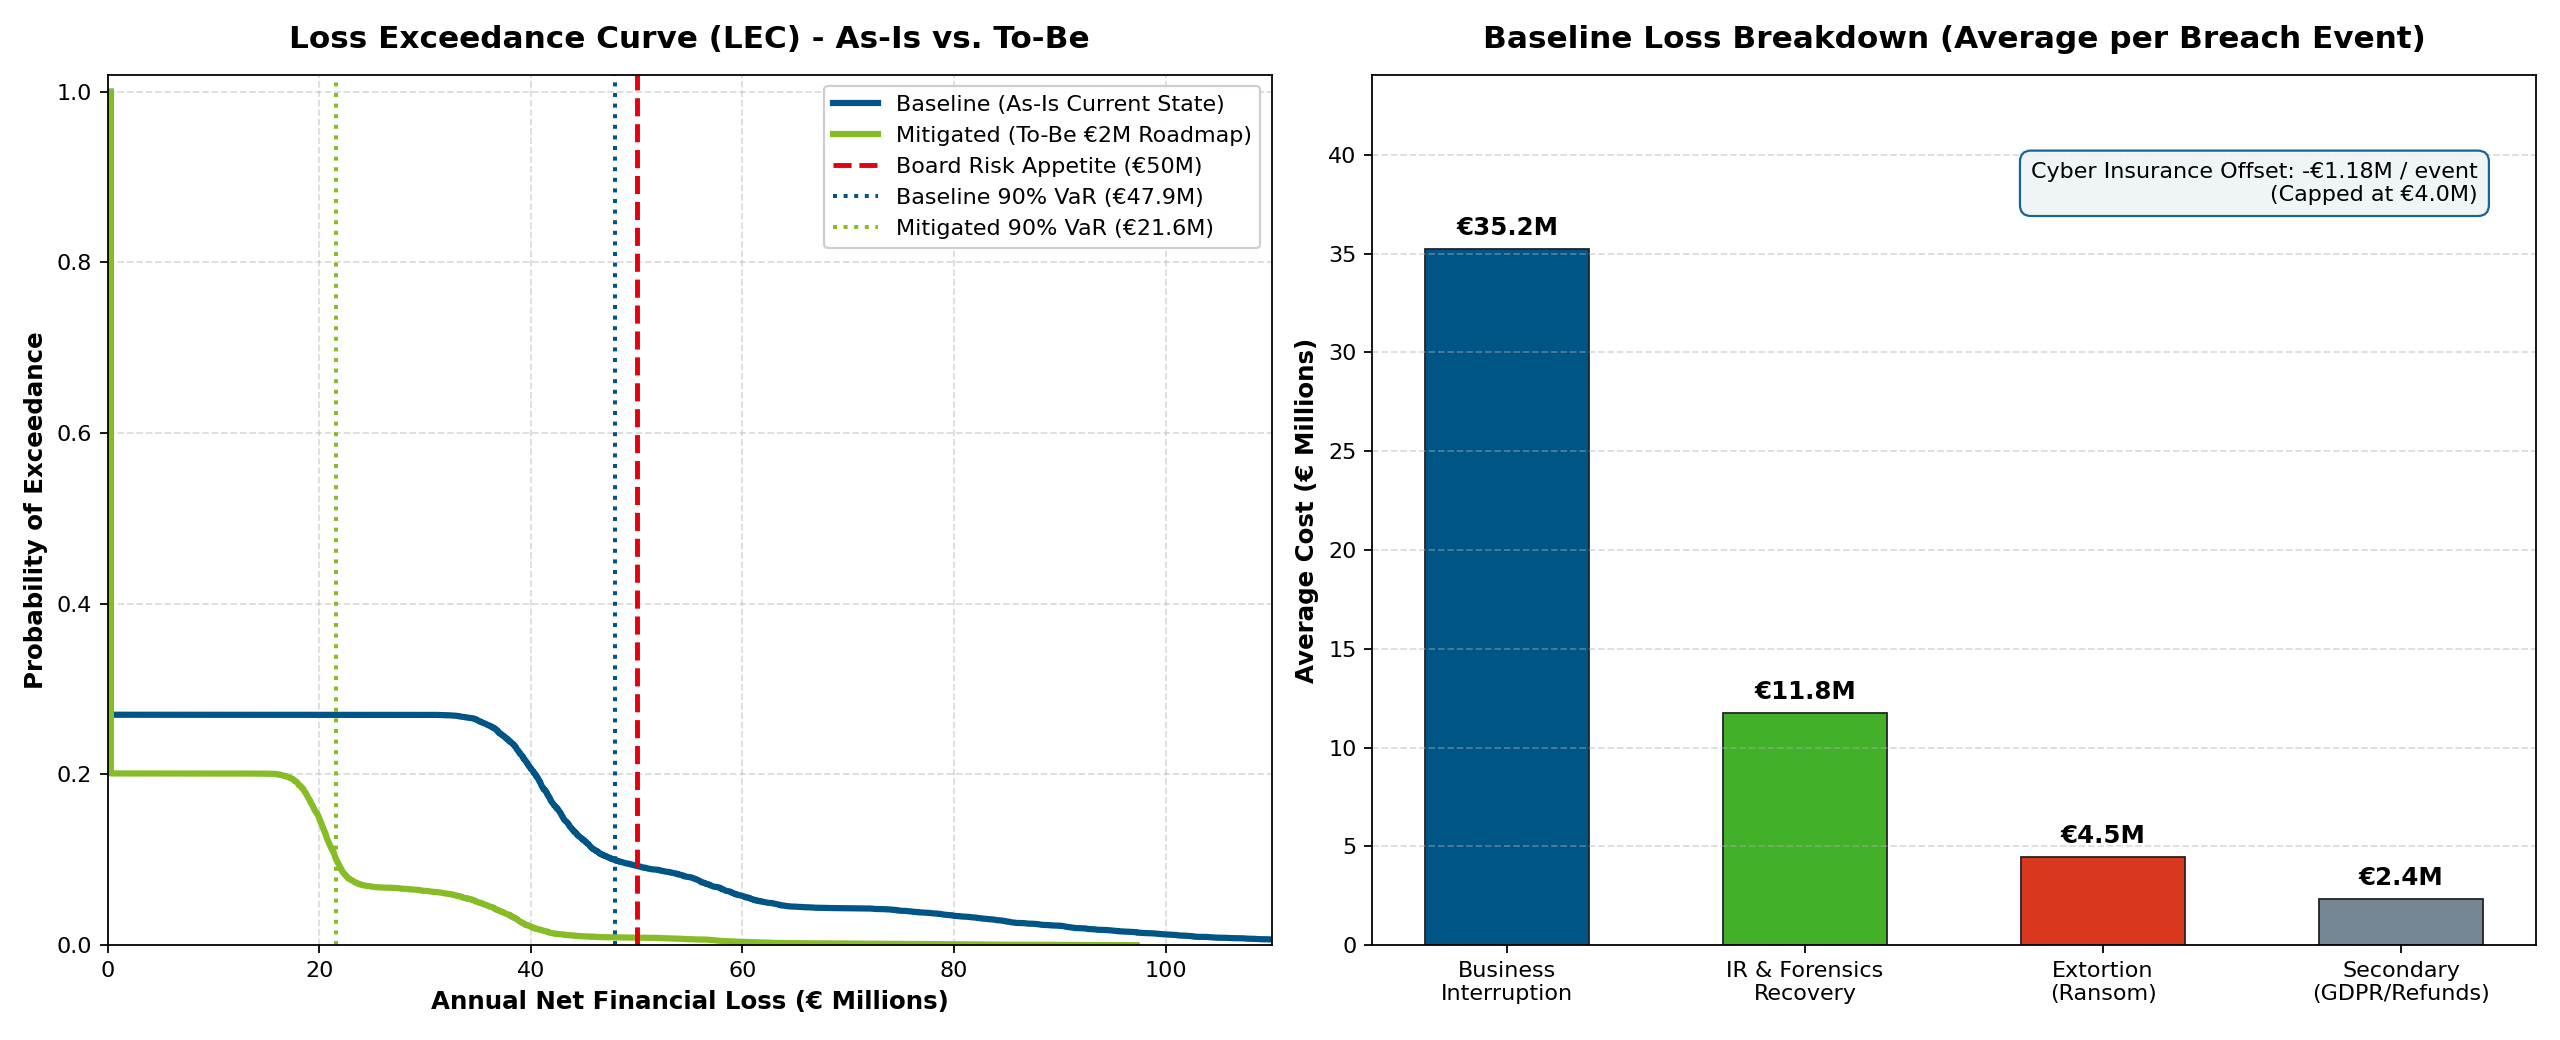
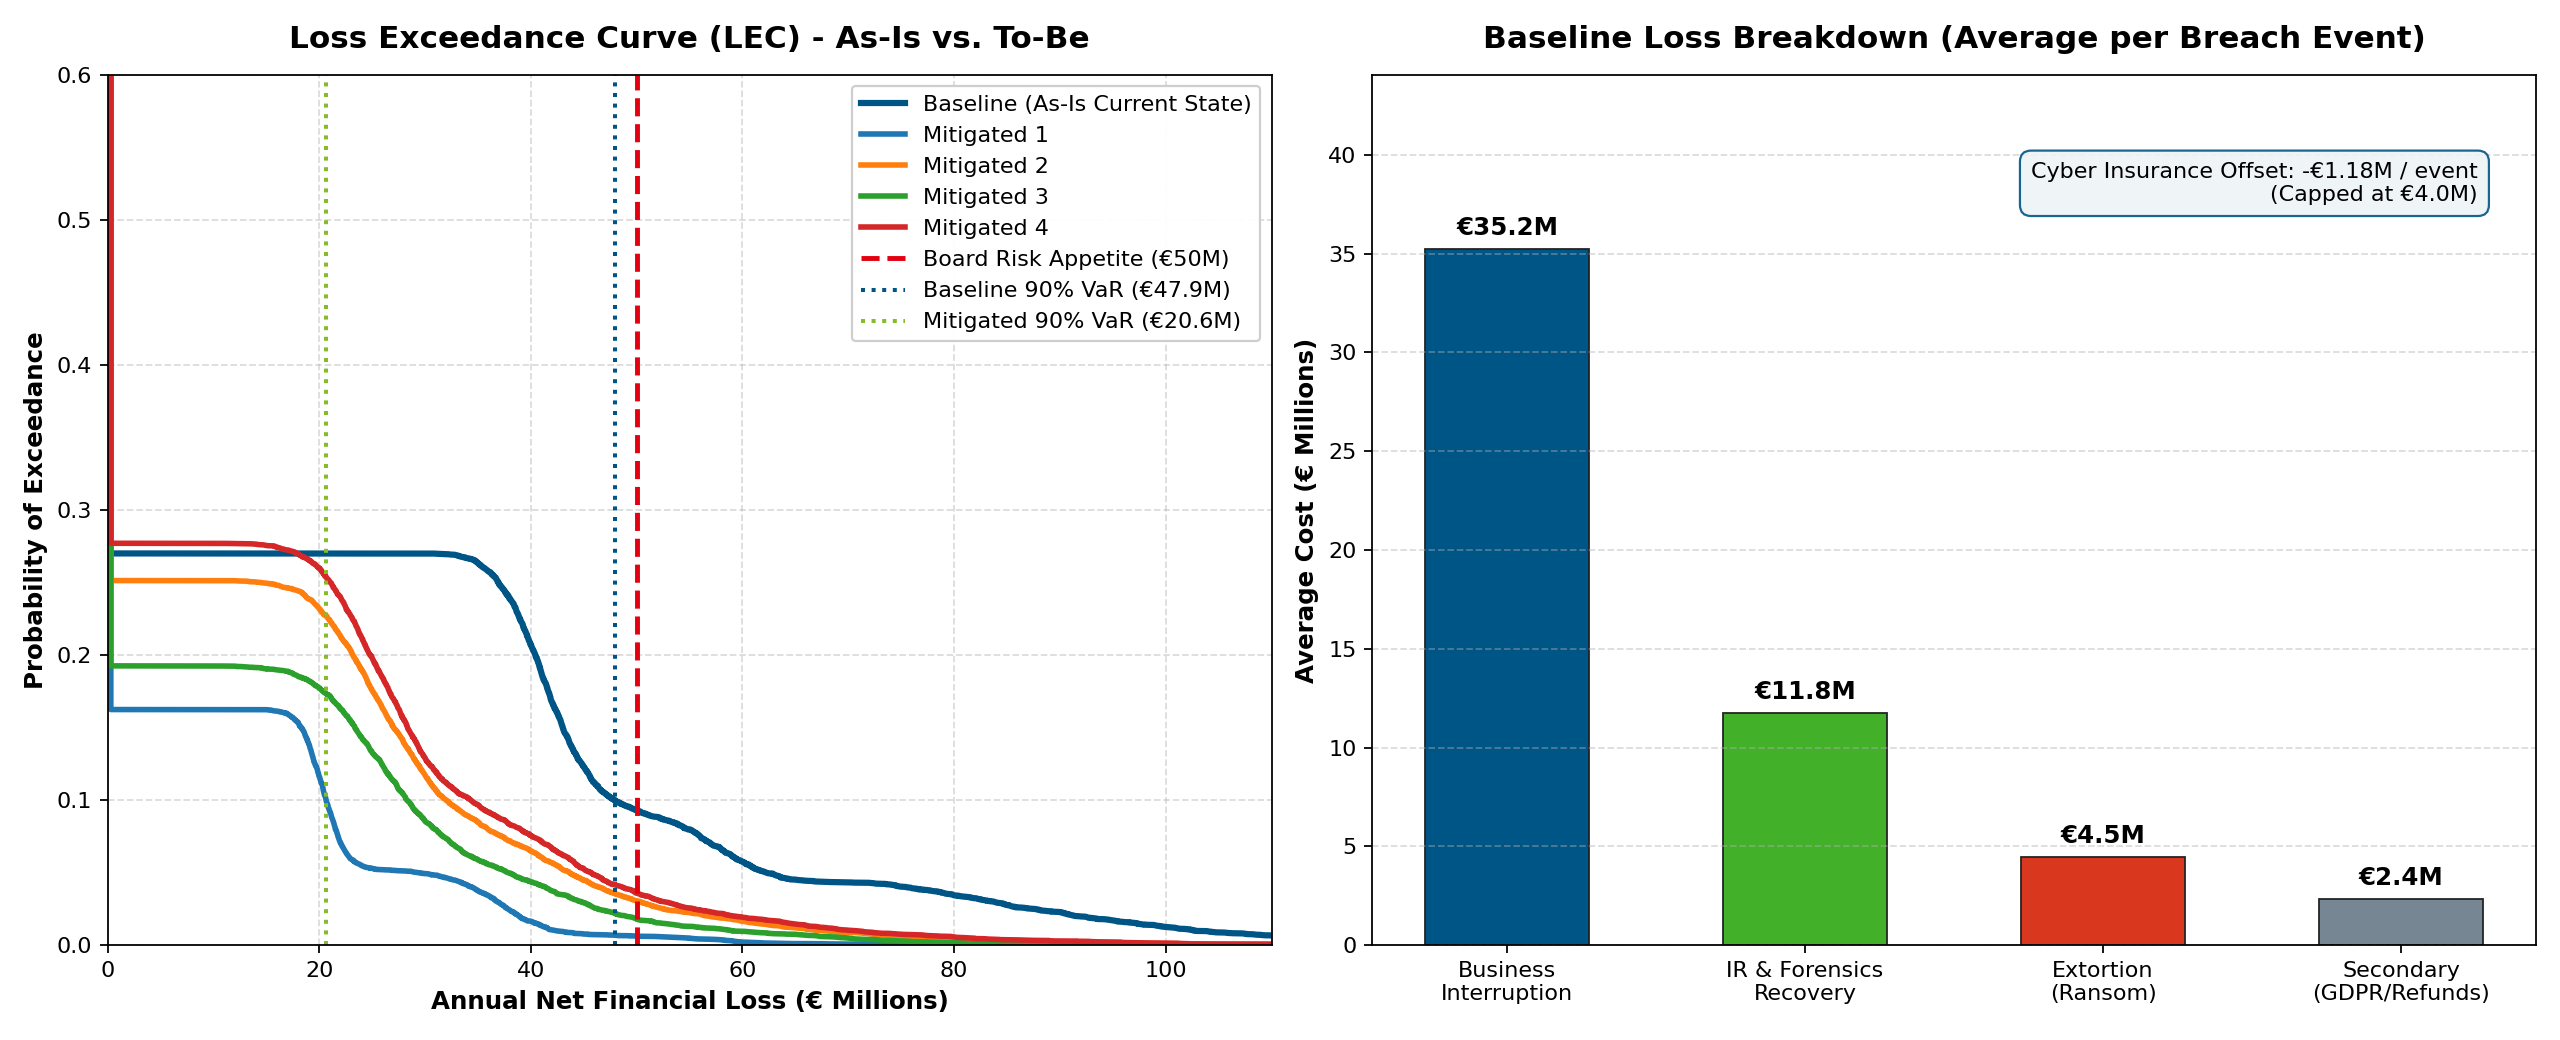
simulation with all mitigations

diff --git a/fair_simulation.py b/fair_simulation.py
@@ -212,7 +212,7 @@ def run_fair_simulation(
     }
     return results
 
-def show_results(baseline1, mitigated1, name_sim):
+def show_results(baseline1, mitigated1, mitigated2 = None, mitigated3 = None, mitigated4 = None, name_sim = ""):
     """
     Display the simulation results for both baseline and mitigated scenarios.
     """
@@ -267,8 +267,36 @@ def show_results(baseline1, mitigated1, name_sim):
     prob_mit = 1.0 - np.arange(1, mitigated1["n_sims"] + 1) / mitigated1["n_sims"]
     
     ax1.plot(sorted_base / 1e6, prob_base, label="Baseline (As-Is Current State)", color="#005587", linewidth=2.8)
-    ax1.plot(sorted_mit / 1e6, prob_mit, label="Mitigated (To-Be €2M Roadmap)", color="#86bc25", linewidth=2.8)
-    
+    mitigated_results = [
+    mitigated1,
+    mitigated2,
+    mitigated3,
+    mitigated4
+    ]
+
+    labels = [
+        "Mitigated 1",
+        "Mitigated 2",
+        "Mitigated 3",
+        "Mitigated 4"
+    ]
+
+    for mitigated, label in zip(mitigated_results, labels):
+
+        sorted_mit = np.sort(mitigated["annual_net_loss"])
+
+        prob_mit = (
+            1.0
+            - np.arange(1, mitigated["n_sims"] + 1)
+            / mitigated["n_sims"]
+        )
+
+        ax1.plot(
+            sorted_mit / 1e6,
+            prob_mit,
+            label=label,
+            linewidth=2.5
+        )
     # Reference vertical lines
     ax1.axvline(x=BOARD_RISK_APPETITE / 1e6, color="#e3000f", linestyle="--", linewidth=2.2,
                 label=f"Board Risk Appetite (€{BOARD_RISK_APPETITE/1e6:.0f}M)")
@@ -281,7 +309,7 @@ def show_results(baseline1, mitigated1, name_sim):
     ax1.set_xlabel("Annual Net Financial Loss (€ Millions)", fontsize=11, fontweight="bold")
     ax1.set_ylabel("Probability of Exceedance", fontsize=11, fontweight="bold")
     ax1.set_xlim(0, 110)
-    ax1.set_ylim(0, 1.02)
+    ax1.set_ylim(0, 0.6)
     ax1.grid(True, linestyle="--", alpha=0.45)
     ax1.legend(loc="upper right", fontsize=10, framealpha=0.95)
     
@@ -332,9 +360,10 @@ def main():
     print("=" * 80)
     print(f"Iterations: 10,000 | Board Risk Appetite: €{BOARD_RISK_APPETITE:,.0f}\n")
     
+    print("\n" + "=" * 80)
+    print(" A/ Variable duration downtime ")
+    print("=" * 80)
     
-    print("Running FAIR Monte Carlo Simulation for Baseline (As-Is) and Mitigated (To-Be) Scenarios...\n")
-    print("Variable duration downtime")
     # ----------------------------------------------------------------------------------
     # A. Baseline Simulation (As-Is: 90% EDR, Manual IR, 0% OT Visibility)
     # ----------------------------------------------------------------------------------
@@ -358,12 +387,12 @@ def main():
     # 1. Vuln drops drastically 
     # 2. Downtime duration drops due to automated recovery
     # 3. IR/Forensics cost drops due to automated playbooks
-    mitigated1 = run_fair_simulation(
+    mitigated_total = run_fair_simulation(
         n_sims=10000,
         tef_min=1.0, tef_mode=1.5, tef_max=2.0,
-        vuln_min=0.05, vuln_mode=0.15, vuln_max=0.28,
-        downtime_min=0.5, downtime_mode=1.0, downtime_max=2.2,
-        ir_min=2_000_000, ir_mode=4_500_000, ir_max=7_000_000,
+        vuln_min=0.09, vuln_mode=0.12, vuln_max=0.16,
+        downtime_min=0.5, downtime_mode=1.0, downtime_max=1.5,
+        ir_min=5_000_000, ir_mode=10_000_000, ir_max=15_000_000,
         secondary_min=0, secondary_mode=1_000_000, secondary_max=3_000_000,
         ransom_cap=20_000_000,
         insurance_weekly_payout=500_000,
@@ -372,11 +401,54 @@ def main():
         seed=42
     )
     
-    show_results(baseline1, mitigated1, "_var_downtime")
+    mitigated1_1 = run_fair_simulation(
+        n_sims=10000,
+        tef_min=1.0, tef_mode=1.5, tef_max=2.0,
+        vuln_min=0.144, vuln_mode=0.189, vuln_max=0.234,
+        downtime_min=0.5, downtime_mode=1.0, downtime_max=2.2,
+        ir_min=5_000_000, ir_mode=10_000_000, ir_max=15_000_000,
+        secondary_min=0, secondary_mode=1_000_000, secondary_max=3_000_000,
+        ransom_cap=20_000_000,
+        insurance_weekly_payout=500_000,
+        insurance_max_weeks=8,
+        insurance_annual_premium=300_000,
+        seed=42
+    )
     
+    mitigated1_2 = run_fair_simulation(
+            n_sims=10000,
+            tef_min=1.0, tef_mode=1.5, tef_max=2.0,
+            vuln_min=0.1088, vuln_mode=0.1428, vuln_max=0.1768,
+            downtime_min=0.5, downtime_mode=1.0, downtime_max=2.2,
+        ir_min=5_000_000, ir_mode=10_000_000, ir_max=15_000_000,
+            secondary_min=0, secondary_mode=1_000_000, secondary_max=3_000_000,
+            ransom_cap=20_000_000,
+            insurance_weekly_payout=500_000,
+            insurance_max_weeks=8,
+            insurance_annual_premium=300_000,
+            seed=42
+        )
     
-    print("Running FAIR Monte Carlo Simulation for Baseline (As-Is) and Mitigated (To-Be) Scenarios...\n")
-    print("Variable duration downtime")
+    mitigated1_3 = run_fair_simulation(
+            n_sims=10000,
+            tef_min=1.0, tef_mode=1.5, tef_max=2.0,
+            vuln_min=0.16, vuln_mode=0.21, vuln_max=0.26,
+            downtime_min=0.5, downtime_mode=1.0, downtime_max=2.2,
+            ir_min=5_000_000, ir_mode=10_000_000, ir_max=15_000_000,
+            secondary_min=0, secondary_mode=1_000_000, secondary_max=3_000_000,
+            ransom_cap=20_000_000,
+            insurance_weekly_payout=500_000,
+            insurance_max_weeks=8,
+            insurance_annual_premium=300_000,
+            seed=42
+        )
+    
+    show_results(baseline1, mitigated_total, mitigated1_1, mitigated1_2, mitigated1_3, "_var_downtime")
+    
+    print("\n" + "=" * 80)
+    print(" B/ Fixed duration downtime ")
+    print("=" * 80)
+    
     # ----------------------------------------------------------------------------------
     # A. Baseline Simulation (As-Is: 90% EDR, Manual IR, 0% OT Visibility)
     # ----------------------------------------------------------------------------------
@@ -400,10 +472,10 @@ def main():
     # 1. Vuln drops drastically 
     # 2. Downtime duration drops due to automated recovery
     # 3. IR/Forensics cost drops due to automated playbooks
-    mitigated2 = run_fair_simulation(
+    mitigated_total_2 = run_fair_simulation(
         n_sims=10000,
         tef_min=1.0, tef_mode=1.5, tef_max=2.0,
-        vuln_min=0.05, vuln_mode=0.15, vuln_max=0.28,
+        vuln_min=0.09, vuln_mode=0.12, vuln_max=0.16,
         fixed_downtime=True, downtime_min=0.5, downtime_mode=1.0, downtime_max=2.2,
         ir_min=2_000_000, ir_mode=4_500_000, ir_max=7_000_000,
         secondary_min=0, secondary_mode=1_000_000, secondary_max=3_000_000,
@@ -414,10 +486,52 @@ def main():
         seed=42
     )
     
-    show_results(baseline2, mitigated2, "_fixed_downtime")
+    mitigated2_1 = run_fair_simulation(
+            n_sims=10000,
+            tef_min=1.0, tef_mode=1.5, tef_max=2.0,
+            vuln_min=0.144, vuln_mode=0.189, vuln_max=0.234,
+            downtime_min=0.5, downtime_mode=1.0, downtime_max=2.2,
+            ir_min=5_000_000, ir_mode=10_000_000, ir_max=15_000_000,
+            secondary_min=0, secondary_mode=1_000_000, secondary_max=3_000_000,
+            ransom_cap=20_000_000,
+            insurance_weekly_payout=500_000,
+            insurance_max_weeks=8,
+            insurance_annual_premium=300_000,
+            seed=42
+        )
+        
+    mitigated2_2 = run_fair_simulation(
+                    n_sims=10000,
+                    tef_min=1.0, tef_mode=1.5, tef_max=2.0,
+                    vuln_min=0.1088, vuln_mode=0.1428, vuln_max=0.1768,
+                    downtime_min=0.5, downtime_mode=1.0, downtime_max=2.2,
+                ir_min=5_000_000, ir_mode=10_000_000, ir_max=15_000_000,
+                    secondary_min=0, secondary_mode=1_000_000, secondary_max=3_000_000,
+                    ransom_cap=20_000_000,
+                    insurance_weekly_payout=500_000,
+                    insurance_max_weeks=8,
+                    insurance_annual_premium=300_000,
+                    seed=42
+                )
+        
+    mitigated2_3 = run_fair_simulation(
+                    n_sims=10000,
+                    tef_min=1.0, tef_mode=1.5, tef_max=2.0,
+                    vuln_min=0.16, vuln_mode=0.21, vuln_max=0.26,
+                    downtime_min=0.5, downtime_mode=1.0, downtime_max=2.2,
+                    ir_min=5_000_000, ir_mode=10_000_000, ir_max=15_000_000,
+                    secondary_min=0, secondary_mode=1_000_000, secondary_max=3_000_000,
+                    ransom_cap=20_000_000,
+                    insurance_weekly_payout=500_000,
+                    insurance_max_weeks=8,
+                    insurance_annual_premium=300_000,
+                    seed=42
+                )
+    
+    show_results(baseline2, mitigated_total_2, mitigated2_1, mitigated2_2, mitigated2_3, "_fixed_downtime")
     
     
-    return baseline1, mitigated1, baseline2, mitigated2
+    return baseline1, mitigated_total, baseline2, mitigated_total_2
 
 
 if __name__ == "__main__":
